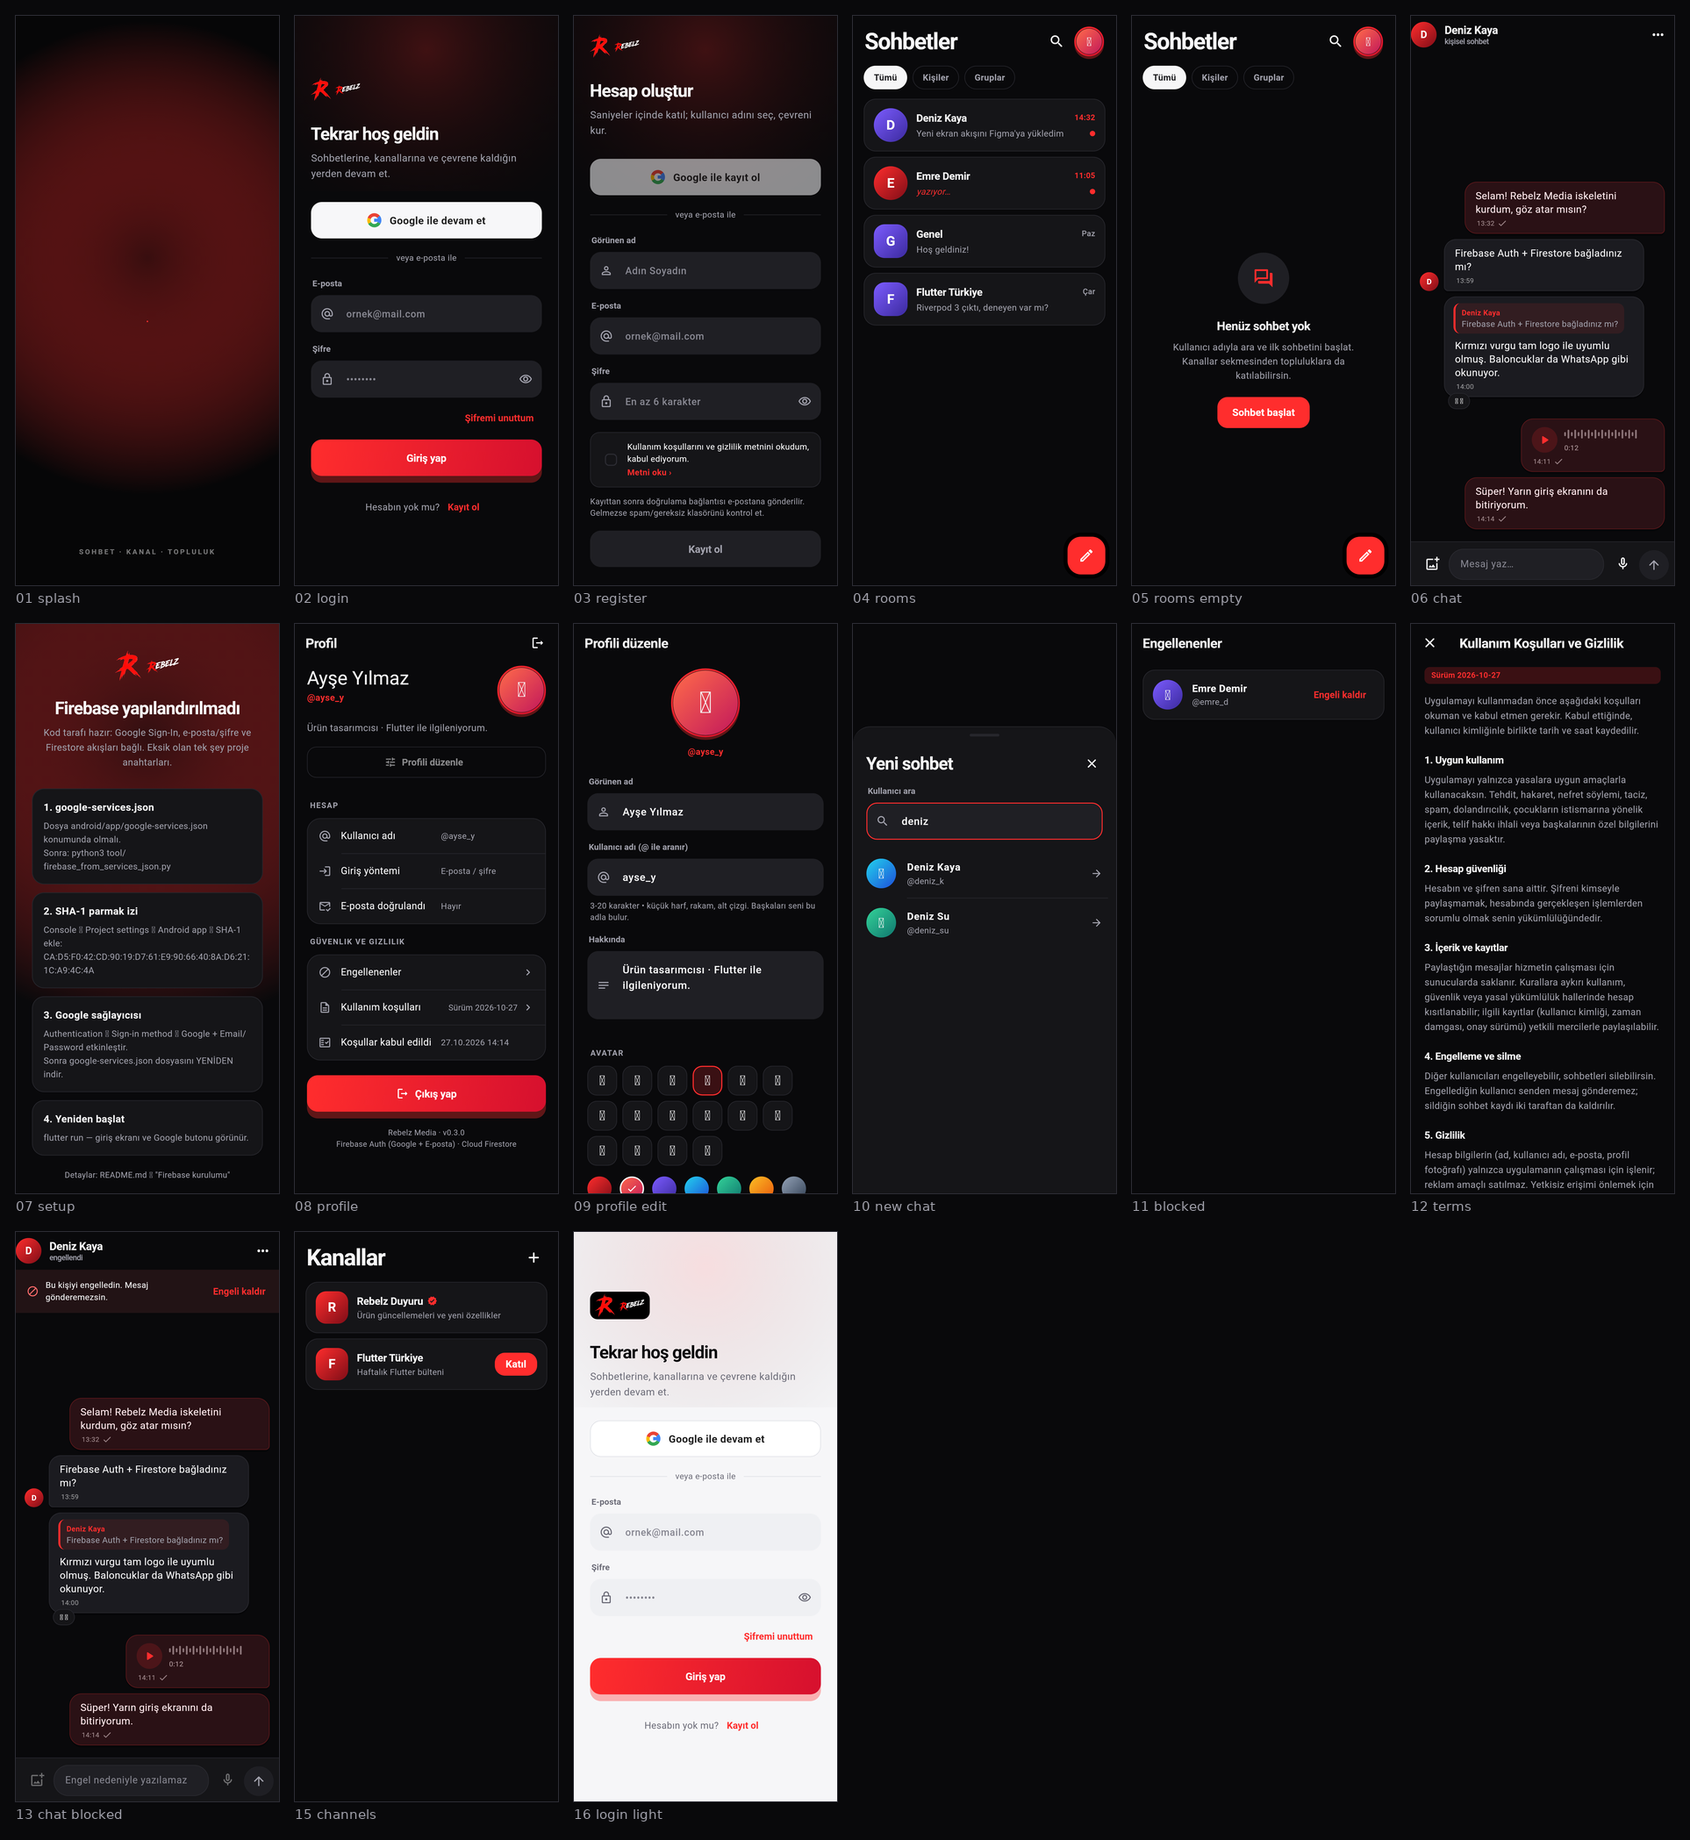
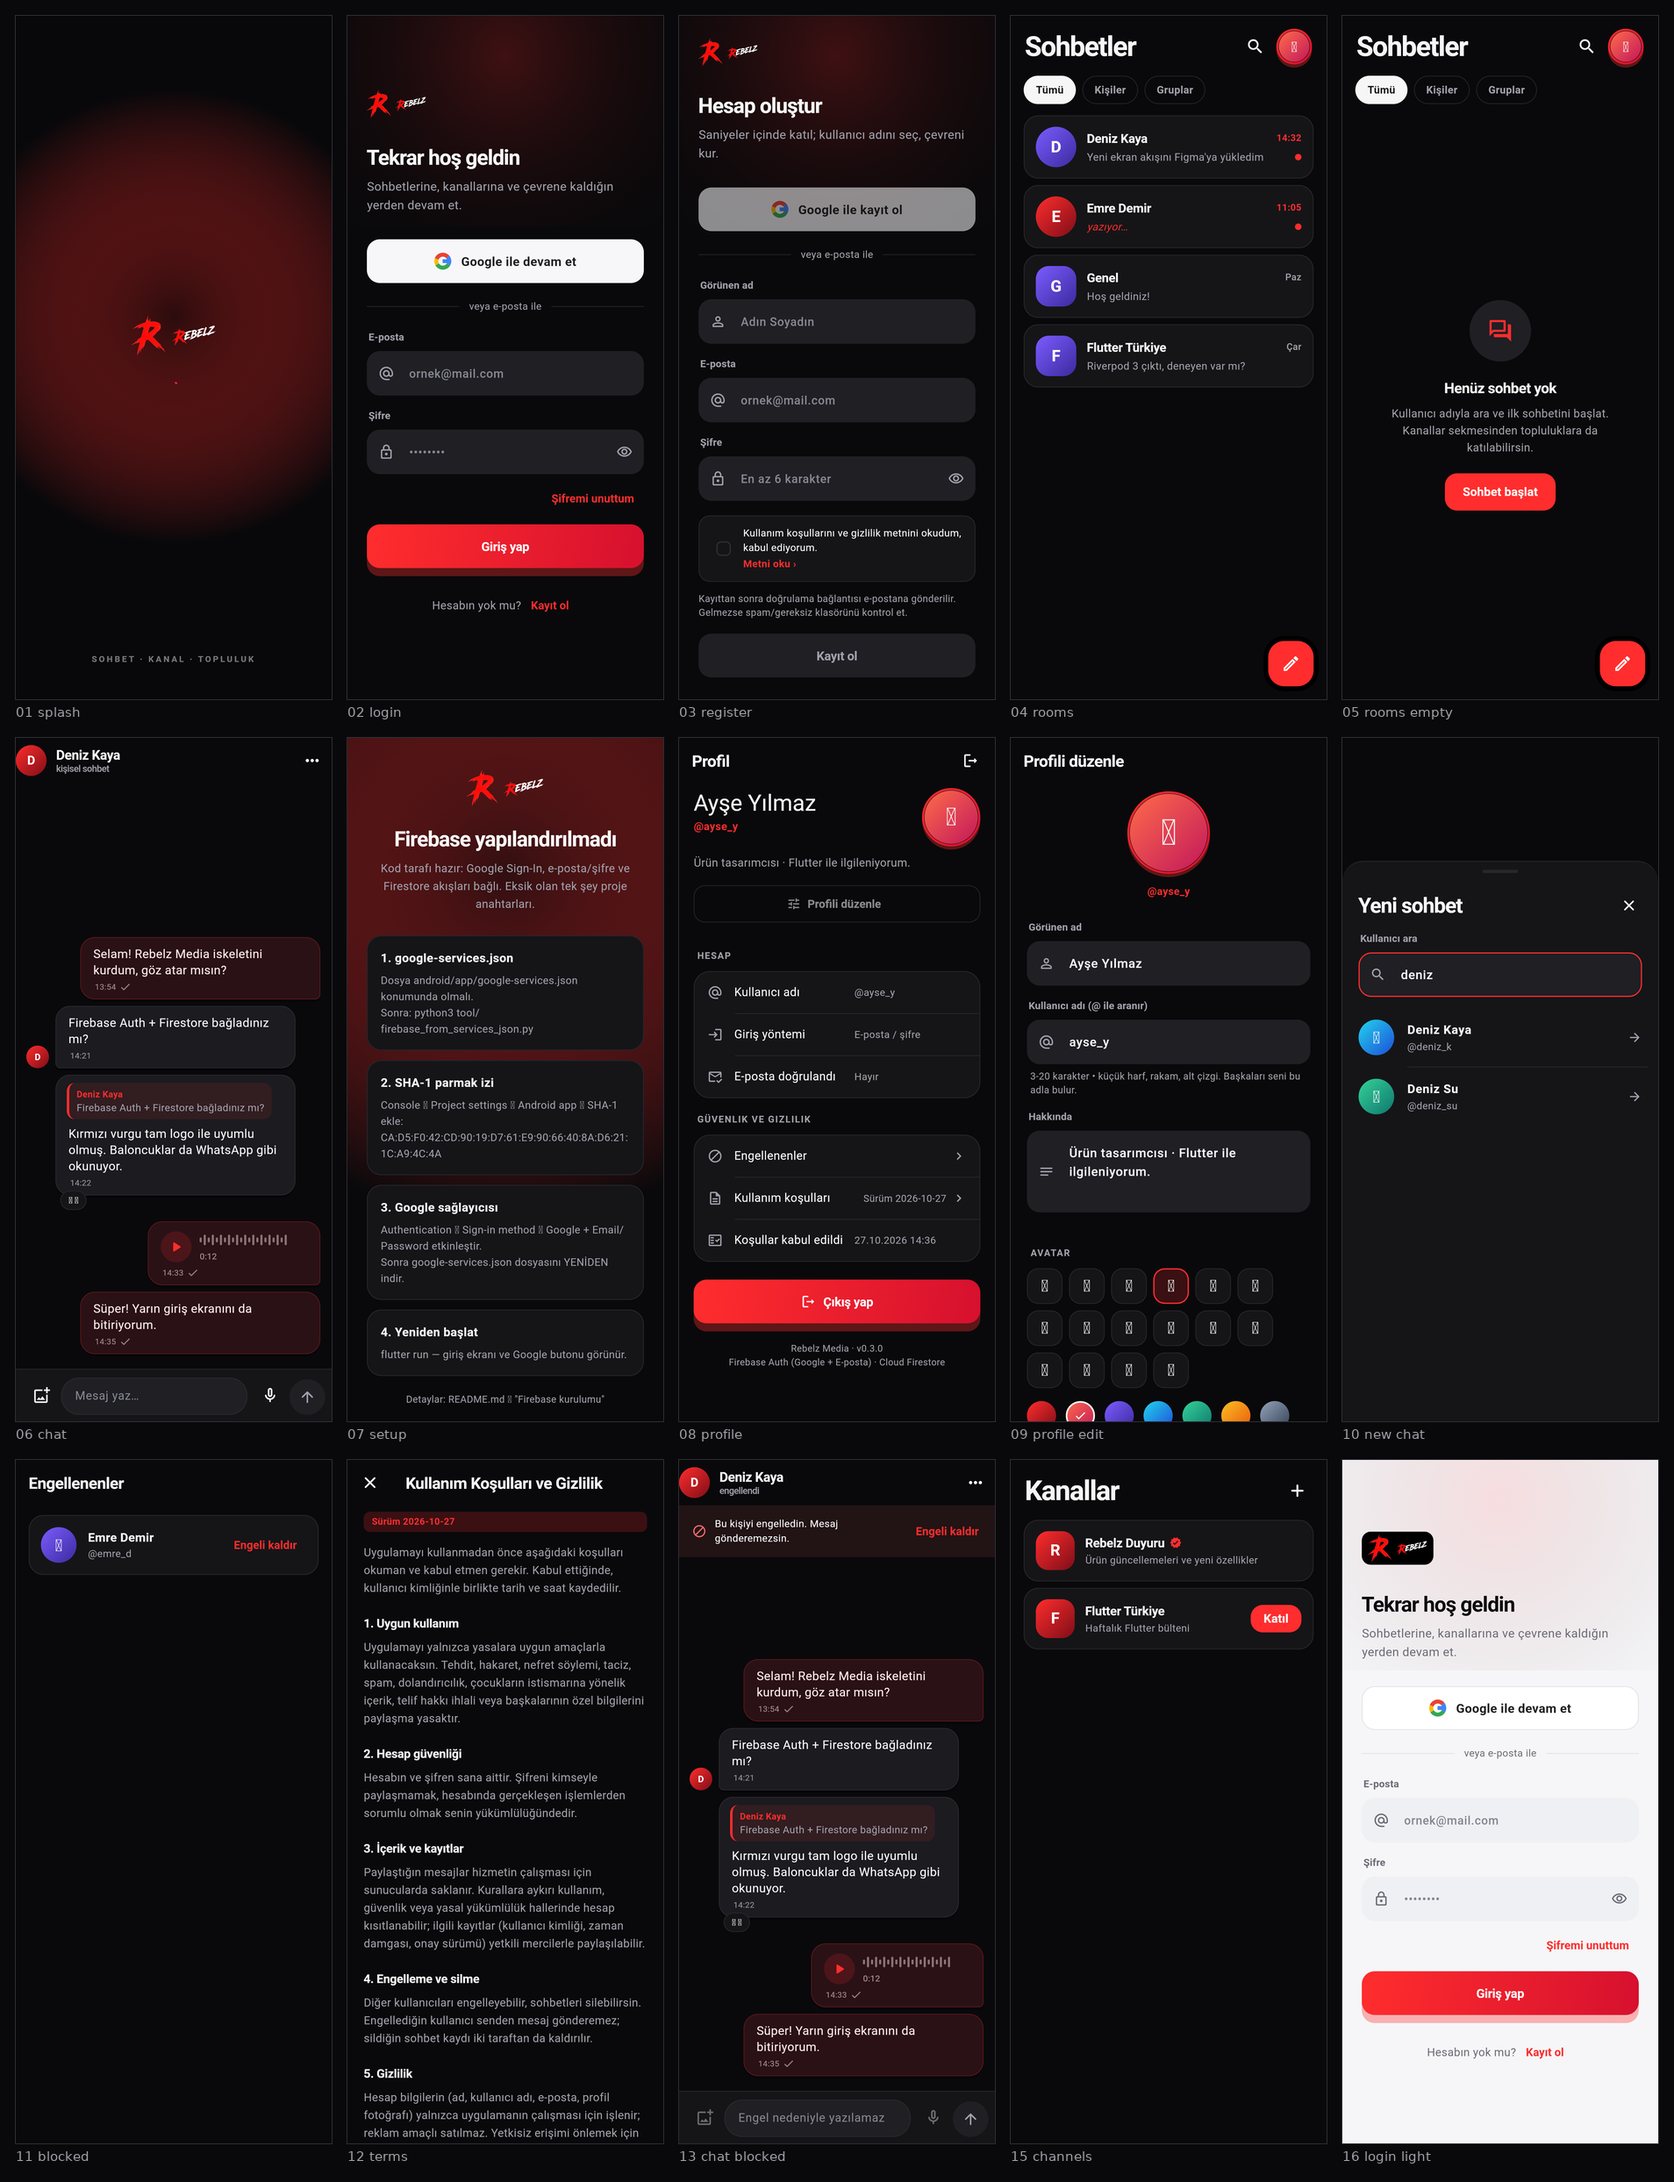
Kontak sayfası: 360 px / 5 sütun (okunabilir küçük resimler)

diff --git a/tool/ekran_montaj.py b/tool/ekran_montaj.py
@@ -25,8 +25,8 @@ KOK = Path(__file__).resolve().parent.parent
 EKRANLAR = KOK / "docs" / "ekranlar"
 CIKTI = KOK / "docs" / "screens.png"
 
-GENISLIK = 300
-SUTUN = 6
+GENISLIK = 360
+SUTUN = 5
 BOSLUK = 18
 ARKA = (9, 9, 11)
 CERCEVE = (44, 44, 52)
